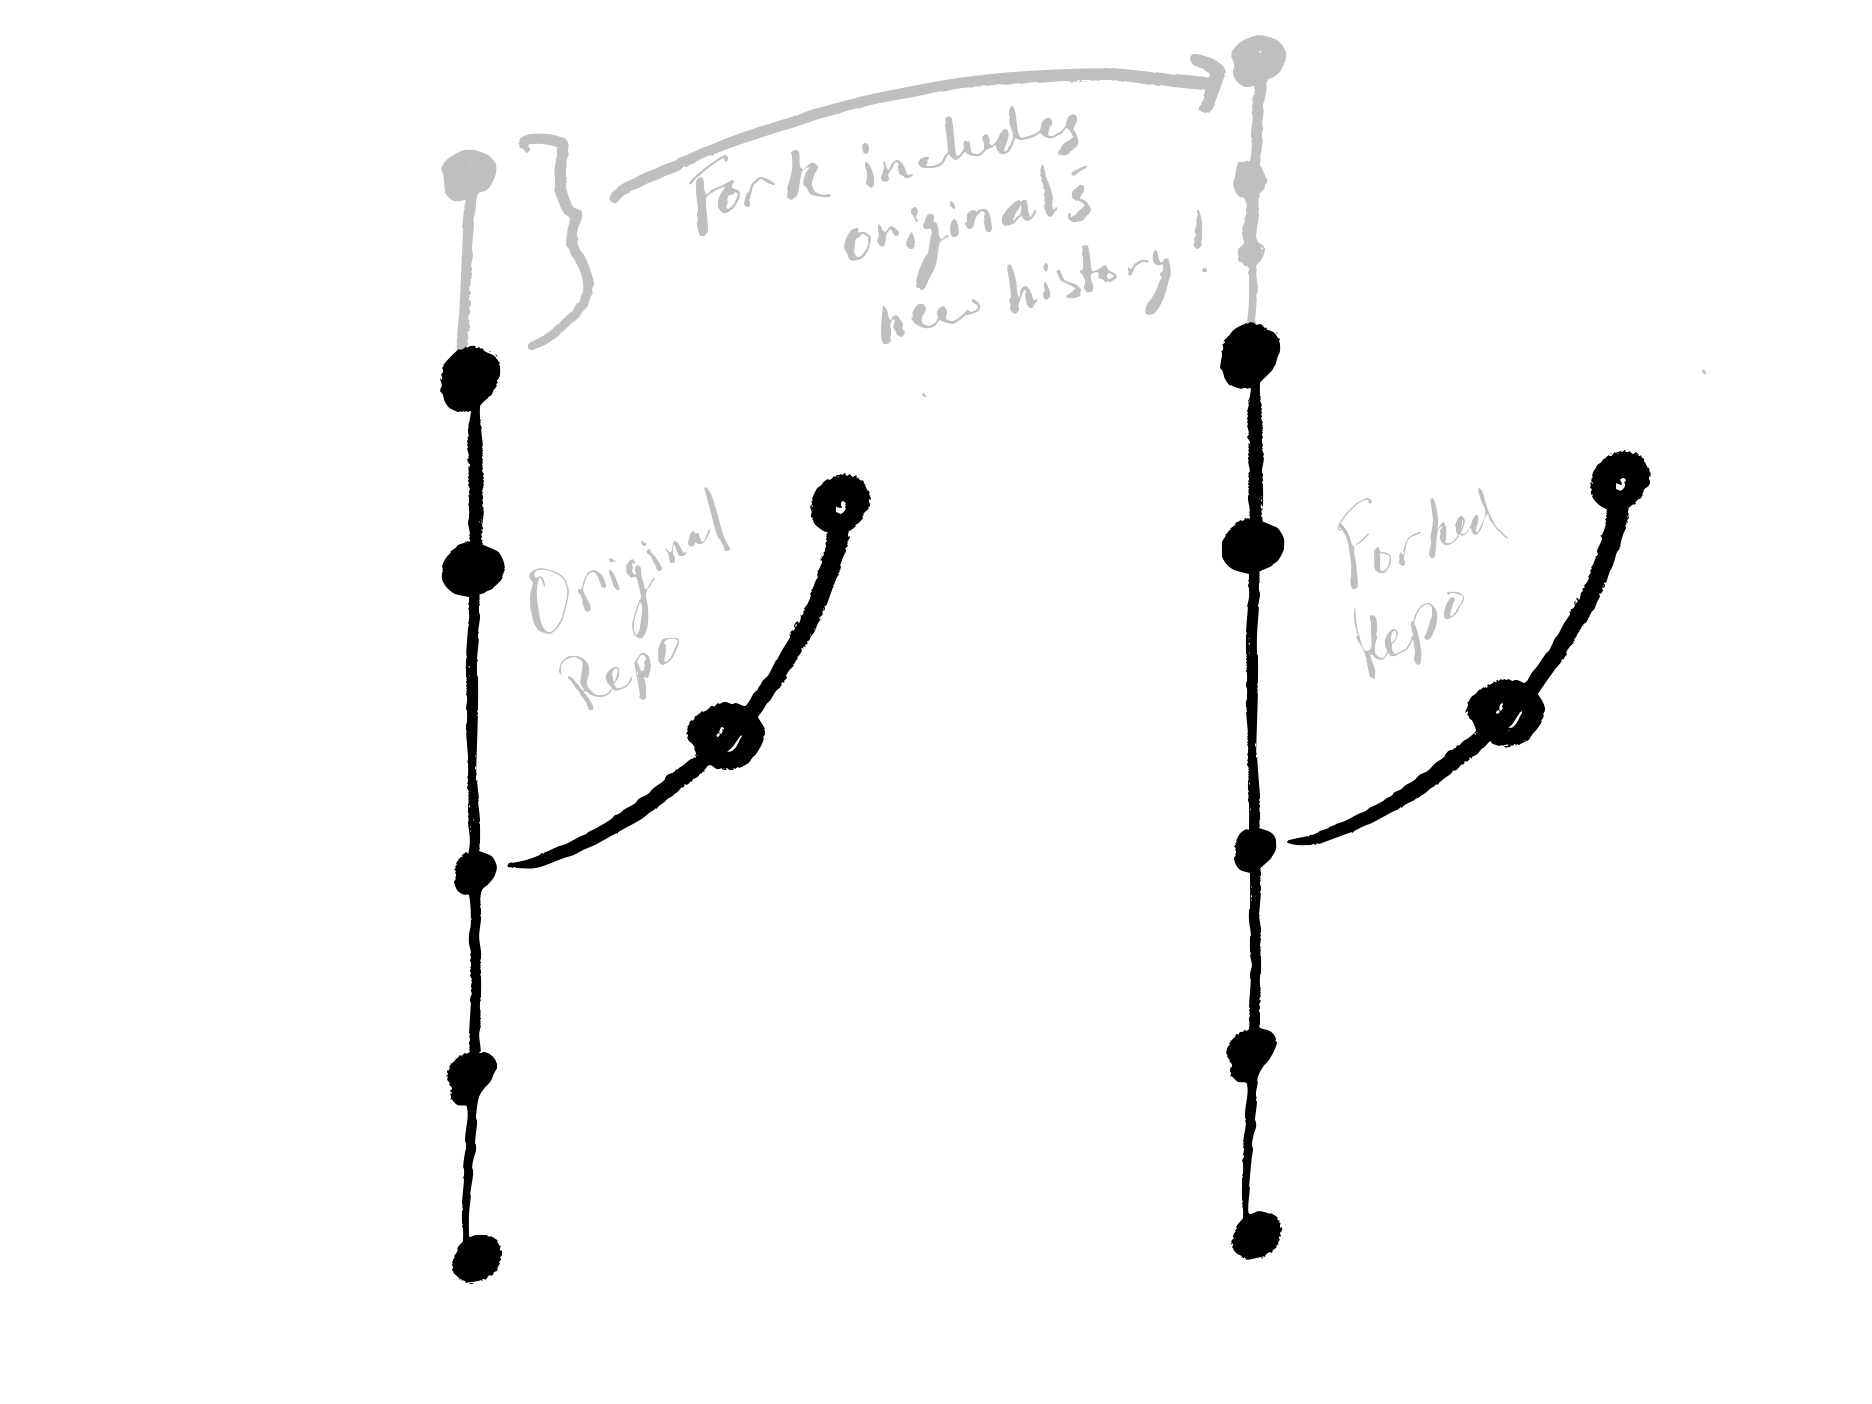
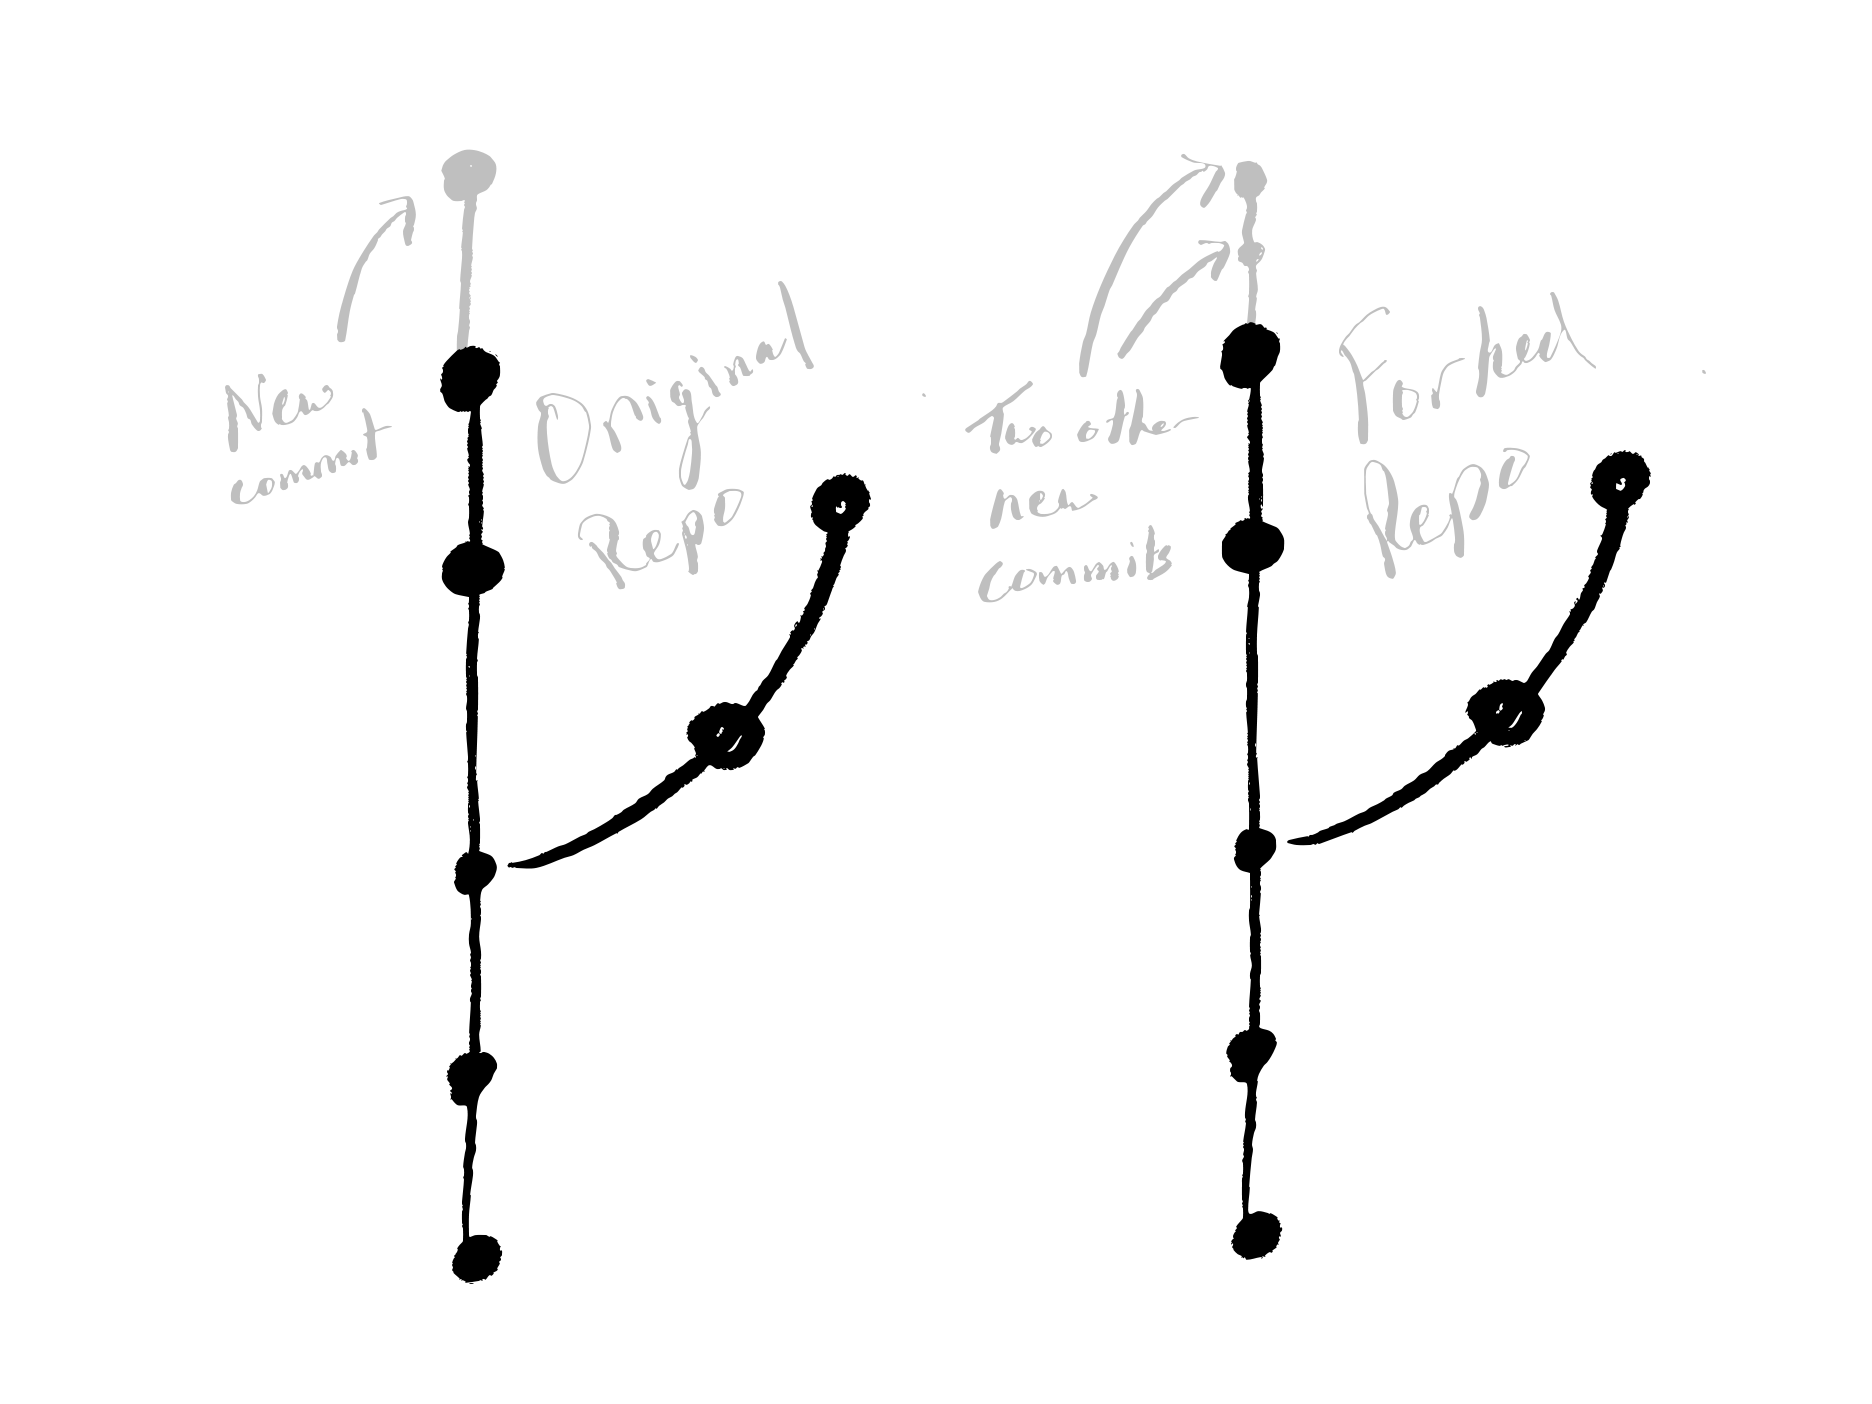
Update images for post

diff --git a/_posts/2020-11-17-syncing-github-forks.md b/_posts/2020-11-17-syncing-github-forks.md
@@ -8,6 +8,8 @@ categories: github forks tutorial
 
 # Keeping Your Forks Synced
 
+![Repo representation with arrow pointing to a different repo representation with the GitHub logo centered below "Syncing Forks"]({{site.url}}/images/syncing-github-forks/forked_repo.png)
+
 So you've heard this *GitHub* thing is pretty sweet on collaboration.
 
 You found a sweet project someone started on GitHub and followed some tutorial on forking this, cloning that, etc., etc. You do some extra work and make some commits on your version. All is looking great.
@@ -24,8 +26,6 @@ Before we get into any specific details about dealing with GitHub's forks, it mi
 
 A fork is actually not part of the [git version control system](https://git-scm.com/) that hosting services like [GitHub](https://github.com) & [GitLab](https://gitlab.com)  is built on top of. A fork is simply a repository with some nifty extra features that can make collaborating on platforms like GitHub easier. You "fork" a project's repository, or _repo_, which will create a copy of that repository with the same commits, branches, and of course files.
 
-![Repo visualized with commits on two branches]({{site.url}}/images/syncing-github-forks/git_repo_with_branch.png)
-
 When you fork a repo, you will create a new repo from that original repo at that point in time. You can then modify your new fork starting from the original's history. What's also nice is that you can keep a little record tying your fork to the original repo.
 
 I like to think of forks as a kind of "super branch" of the original repository. When you create a branch, you have a shared commit history and a shared common commit ancestor. And now both branches can be changed independently from another. Similarly, both the original repo and fork have a shared point in time where they are identical. They can then be independently worked on as new commits are added.
@@ -38,6 +38,8 @@ Well, we can! This is why forks are so great for collaboration; you can take som
 
 
 ## Working with Parallel Universes
+
+![Repo visualized with commits on two branches]({{site.url}}/images/syncing-github-forks/git_repo_with_branch.png)
 
 Branching is often compared to _"parallel universes"_ in that when a branch is created, it shares a common (commit) history with a branch. After that point, each branch can continue on its own history. If you later want to incorporate some changes from a branch into a different one, we can do a [_merge_](https://git-scm.com/docs/git-merge) on the branch. 
 
@@ -124,6 +126,8 @@ $ git merge upstream/main
 > Note that you may come across a _merge conflict_ at this step. You can follow the same steps as you would if you were merging two branches.
 
 ## All Set & Synced!
+
+![Forked repo & original repo with new commits incorporated into fork]({{site.url}}/images/syncing-github-forks/forked_repo_with_new_commits_merged.png)
 
 And we're done! Just to review, we added a remote to the original repo, fetched the history, and finally checked out our forked repo's branch and merge the original repo's branch into ours! We could do this like the set of commands below:
 
